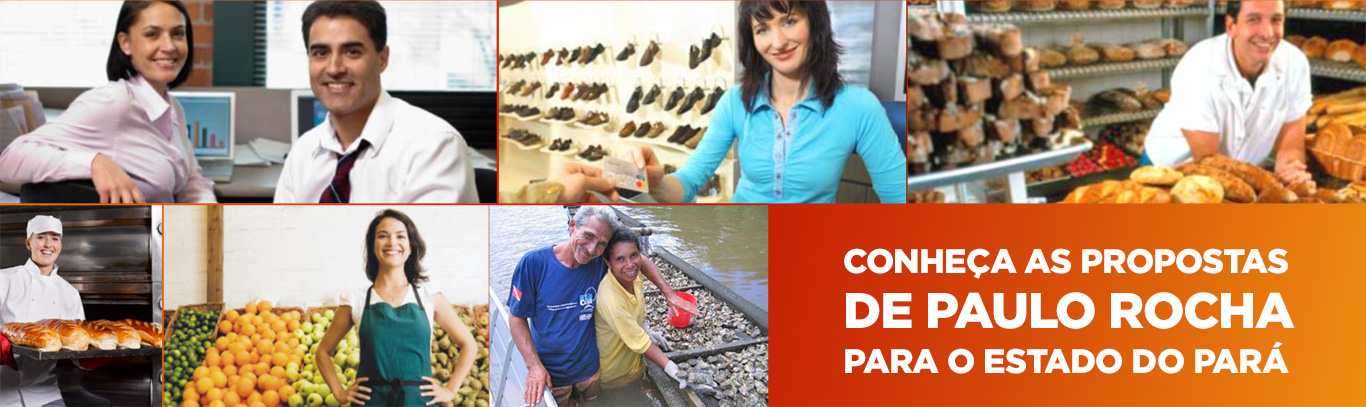
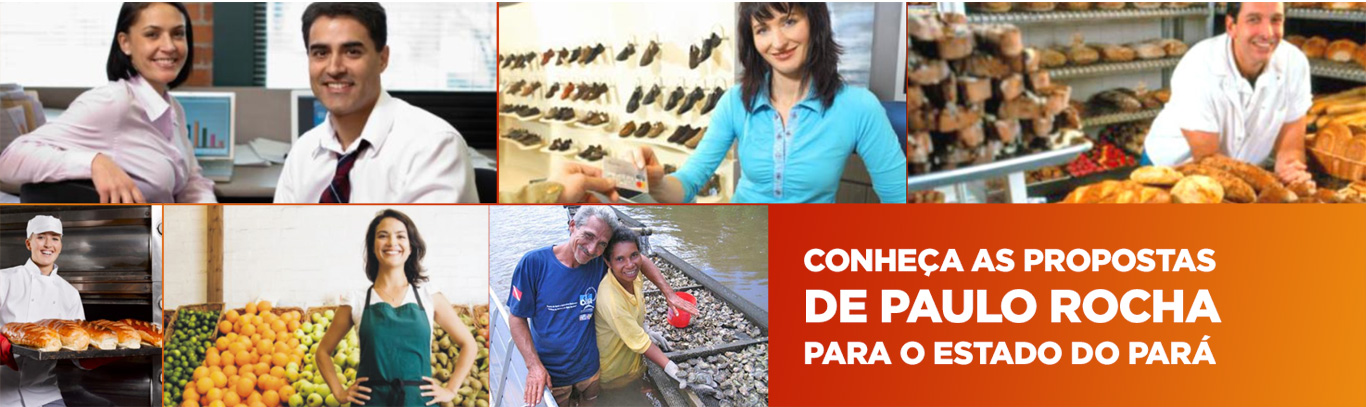
Paulo agora responsivo

diff --git a/wp-content/themes/paulorocha/css/less/site.less b/wp-content/themes/paulorocha/css/less/site.less
@@ -33,6 +33,17 @@ FUNÇÕES PADRÕES START
 /*********************************************************************
 FUNÇÕES PADRÕES END
 */
+/*
+NON-RESPONSIVE START
+**********************************************************************************************/
+/* ALTERAR APENAS ESTAS VARIAVEIS DE ACORDO COM O PROJETO START */
+.container {max-width: none !important;width: 960px;}
+.navbar-nav > li > a {padding-top: 39px;padding-bottom:39px;}
+/* ALTERAR APENAS ESTAS VARIAVEIS DE ACORDO COM O PROJETO END */
+/* Finesse the page header spacing */.page-header {margin-bottom: 30px;}.page-header .lead {margin-bottom: 10px;}/* Non-responsive overrides** Utilitze the following CSS to disable the responsive-ness of the container,* grid system, and navbar.*//* Reset the container *//* Always float the navbar header */.navbar-header {float: left;}/* Undo the collapsing navbar */.navbar-collapse {display: block !important;height: auto !important;padding-bottom: 0;overflow: visible !important;}.navbar-toggle {display: none;}.navbar-collapse {border-top: 0;}.navbar-brand {margin-left: -15px;}/* Always apply the floated nav */.navbar-nav {float: left;margin: 0;}.navbar-nav > li {float: left;}/* Redeclare since we override the float above */.navbar-nav.navbar-right {float: right;}/* Undo custom dropdowns */.navbar .navbar-nav .open .dropdown-menu {position: absolute;float: left;background-color: #fff;border: 1px solid #cccccc;border: 1px solid rgba(0, 0, 0, 0.15);border-width: 0 1px 1px;border-radius: 0 0 4px 4px;-webkit-box-shadow: 0 6px 12px rgba(0, 0, 0, 0.175);box-shadow: 0 6px 12px rgba(0, 0, 0, 0.175);}.navbar-default .navbar-nav .open .dropdown-menu > li > a {color: #333;}.navbar .navbar-nav .open .dropdown-menu > li > a:hover,.navbar .navbar-nav .open .dropdown-menu > li > a:focus,.navbar .navbar-nav .open .dropdown-menu > .active > a,.navbar .navbar-nav .open .dropdown-menu > .active > a:hover,.navbar .navbar-nav .open .dropdown-menu > .active > a:focus {color: #fff !important;background-color: #428bca !important;}.navbar .navbar-nav .open .dropdown-menu > .disabled > a,.navbar .navbar-nav .open .dropdown-menu > .disabled > a:hover,.navbar .navbar-nav .open .dropdown-menu > .disabled > a:focus {color: #999 !important;background-color: transparent !important;}
+/**********************************************************************************************
+NON-RESPONSIVE END
+*/
 ::selection {background-color: @primary-color;color: #FFF;}
 ::-moz-selection {background-color: @primary-color;color: #FFF;}
 small {display: inline-block;line-height: 1.1;}
@@ -51,6 +62,7 @@ FONTS END
 ESTRUTURA START
 **********************************************************************************************/
 body {background: #F7F7F7;}
+.extra-header, .extra-central, .extra-footer {min-width: 960px;}
 .extra-header {
     background: @primary-color url(images/bg-header.jpg) no-repeat center top;position: relative;margin-bottom: 40px; 
     .container {}
@@ -84,7 +96,7 @@ body {background: #F7F7F7;}
     }
 }
 .site-header-bottom {background: @secondary-color;position: absolute;left: 0;right: 0;height: 10px;top: 100%;z-index: 1009;}
-.site-content {min-height: 300px;}
+.site-content {min-height: 280px;}
 .site-central {background: #FFF;padding:20px;margin-bottom: 2px;}
 .home {
     .site-central {background: none;padding:0;margin-bottom:0;}
@@ -148,14 +160,14 @@ CLASSES START
     .cycle-prev, .cycle-next {display: block;position: absolute;top: 50%;margin-top:-58px;height: 116px;width: 100px;text-align: center;background: @secondary-color;padding:38px 0;z-index: 2;}
     .cycle-prev {left: 0;-webkit-border-radius: 0px 3px 3px 0px;-moz-border-radius: 0px 3px 3px 0px;-ms-border-radius: 0px 3px 3px 0px;-o-border-radius: 0px 3px 3px 0px;border-radius: 0px 3px 3px 0px;}
     .cycle-next {right: 0;-webkit-border-radius: 3px 0px 0px 3px;-moz-border-radius: 3px 0px 0px 3px;-ms-border-radius: 3px 0px 0px 3px;-o-border-radius: 3px 0px 0px 3px;border-radius: 3px 0px 0px 3px;}
-    &, .cycle-slideshow, .cycle-slideshow li, .cycle-slideshow li a {width: 100%;height: 404px;}
+    &, .cycle-slideshow, .cycle-slideshow li, .cycle-slideshow li a {width: 100%;height: 338px;}
     .cycle-slideshow {
         position: relative;z-index: 1;overflow: hidden;
         li {
             overflow: hidden;
             a {
                 display: block;position: relative; 
-                img {max-height: 100%;min-width:100%;position: absolute;top: 0;}
+                img {height:auto;max-width:100%;position: absolute;top: 0;}
             } 
         }
     }
@@ -241,17 +253,17 @@ JQUERY UI END
 
 }
 @media (max-width: 767px) {
-   /*    .site-geral:before {content:"TABLET";}*/
+ /*    .site-geral:before {content:"TABLET";}*/
 }
 @media (max-width: 480px) {
-   /*#GERAL:before {content:"MOBILE";}*/
+ /*#GERAL:before {content:"MOBILE";}*/
 }
 @media (min-width: 768px) and (max-width: 980px) {
-    .navbar-brand {
+    /* .navbar-brand {
         padding-top:44px;
         img {width: 100px;height: auto;}
-    }
-    .extra-header .navbar .nav > li > a {font-size: 13px;padding-left:7px;padding-right:7px;}
+        } */
+    // .extra-header .navbar .nav > li > a {font-size: 13px;padding-left:7px;padding-right:7px;}
     .extra-boxs {
         .site-boxs {
             .lista-box {
@@ -263,13 +275,9 @@ JQUERY UI END
     }
 }
 @media (min-width: 981px) and (max-width: 1200px) {
-   /*#GERAL:before {content:"ACIMA DE TABLET";}*/
+ /*#GERAL:before {content:"ACIMA DE TABLET";}*/
 
-    .navbar-brand {
-        padding-top:36px;
-        img {width: 130px;height: auto;}
-    }
-   .extra-boxs {
+ .extra-boxs {
     .site-boxs {
         .lista-box {
             .box {
@@ -278,4 +286,17 @@ JQUERY UI END
         }
     }
 }
+}
+@media (max-width: 1200px)  {
+    .extra-header .navbar .nav > li > a {font-size: 14px;padding-left:7px;padding-right:7px;}
+/*    .navbar-brand {
+    // padding-top:36px !important;
+    // img {width: 130px;height: auto;}
+    } */
+    .box-banner {
+        &, .cycle-slideshow, .cycle-slideshow li, .cycle-slideshow li a {height: 280px;}
+    }
+}
+@media (min-width: 1201px)  {
+    .container {width: 1160px;}
 }

diff --git a/wp-content/themes/paulorocha/style.css b/wp-content/themes/paulorocha/style.css
@@ -19,6 +19,92 @@ FUNÇÕES PADRÕES START
 /*********************************************************************
 FUNÇÕES PADRÕES END
 */
+/*
+NON-RESPONSIVE START
+**********************************************************************************************/
+/* ALTERAR APENAS ESTAS VARIAVEIS DE ACORDO COM O PROJETO START */
+.container {
+  max-width: none !important;
+  width: 960px;
+}
+.navbar-nav > li > a {
+  padding-top: 39px;
+  padding-bottom: 39px;
+}
+/* ALTERAR APENAS ESTAS VARIAVEIS DE ACORDO COM O PROJETO END */
+/* Finesse the page header spacing */
+.page-header {
+  margin-bottom: 30px;
+}
+.page-header .lead {
+  margin-bottom: 10px;
+}
+/* Non-responsive overrides** Utilitze the following CSS to disable the responsive-ness of the container,* grid system, and navbar.*/
+/* Reset the container */
+/* Always float the navbar header */
+.navbar-header {
+  float: left;
+}
+/* Undo the collapsing navbar */
+.navbar-collapse {
+  display: block !important;
+  height: auto !important;
+  padding-bottom: 0;
+  overflow: visible !important;
+}
+.navbar-toggle {
+  display: none;
+}
+.navbar-collapse {
+  border-top: 0;
+}
+.navbar-brand {
+  margin-left: -15px;
+}
+/* Always apply the floated nav */
+.navbar-nav {
+  float: left;
+  margin: 0;
+}
+.navbar-nav > li {
+  float: left;
+}
+/* Redeclare since we override the float above */
+.navbar-nav.navbar-right {
+  float: right;
+}
+/* Undo custom dropdowns */
+.navbar .navbar-nav .open .dropdown-menu {
+  position: absolute;
+  float: left;
+  background-color: #fff;
+  border: 1px solid #cccccc;
+  border: 1px solid rgba(0, 0, 0, 0.15);
+  border-width: 0 1px 1px;
+  border-radius: 0 0 4px 4px;
+  -webkit-box-shadow: 0 6px 12px rgba(0, 0, 0, 0.175);
+  box-shadow: 0 6px 12px rgba(0, 0, 0, 0.175);
+}
+.navbar-default .navbar-nav .open .dropdown-menu > li > a {
+  color: #333;
+}
+.navbar .navbar-nav .open .dropdown-menu > li > a:hover,
+.navbar .navbar-nav .open .dropdown-menu > li > a:focus,
+.navbar .navbar-nav .open .dropdown-menu > .active > a,
+.navbar .navbar-nav .open .dropdown-menu > .active > a:hover,
+.navbar .navbar-nav .open .dropdown-menu > .active > a:focus {
+  color: #fff !important;
+  background-color: #428bca !important;
+}
+.navbar .navbar-nav .open .dropdown-menu > .disabled > a,
+.navbar .navbar-nav .open .dropdown-menu > .disabled > a:hover,
+.navbar .navbar-nav .open .dropdown-menu > .disabled > a:focus {
+  color: #999 !important;
+  background-color: transparent !important;
+}
+/**********************************************************************************************
+NON-RESPONSIVE END
+*/
 ::selection {
   background-color: #7e0204;
   color: #FFF;
@@ -59,6 +145,11 @@ ESTRUTURA START
 **********************************************************************************************/
 body {
   background: #F7F7F7;
+}
+.extra-header,
+.extra-central,
+.extra-footer {
+  min-width: 960px;
 }
 .extra-header {
   background: #7e0204 url(images/bg-header.jpg) no-repeat center top;
@@ -134,7 +225,7 @@ body {
   z-index: 1009;
 }
 .site-content {
-  min-height: 300px;
+  min-height: 280px;
 }
 .site-central {
   background: #FFF;
@@ -335,7 +426,7 @@ CLASSES START
 .box-banner .cycle-slideshow li,
 .box-banner .cycle-slideshow li a {
   width: 100%;
-  height: 404px;
+  height: 338px;
 }
 .box-banner .cycle-slideshow {
   position: relative;
@@ -350,8 +441,8 @@ CLASSES START
   position: relative;
 }
 .box-banner .cycle-slideshow li a img {
-  max-height: 100%;
-  min-width: 100%;
+  height: auto;
+  max-width: 100%;
   position: absolute;
   top: 0;
 }
@@ -524,34 +615,41 @@ JQUERY UI END
   /*#GERAL:before {content:"MOBILE";}*/
 }
 @media (min-width: 768px) and (max-width: 980px) {
-  .navbar-brand {
-    padding-top: 44px;
-  }
-  .navbar-brand img {
-    width: 100px;
-    height: auto;
-  }
-  .extra-header .navbar .nav > li > a {
-    font-size: 13px;
-    padding-left: 7px;
-    padding-right: 7px;
-  }
+  /* .navbar-brand {
+        padding-top:44px;
+        img {width: 100px;height: auto;}
+        } */
   .extra-boxs .site-boxs .lista-box .box .content {
     font-size: 16px;
   }
 }
 @media (min-width: 981px) and (max-width: 1200px) {
   /*#GERAL:before {content:"ACIMA DE TABLET";}*/
-  .navbar-brand {
-    padding-top: 36px;
-  }
-  .navbar-brand img {
-    width: 130px;
-    height: auto;
-  }
   .extra-boxs .site-boxs .lista-box .box .content {
     font-size: 14px;
     letter-spacing: normal;
     line-height: .9;
+  }
+}
+@media (max-width: 1200px) {
+  .extra-header .navbar .nav > li > a {
+    font-size: 14px;
+    padding-left: 7px;
+    padding-right: 7px;
+  }
+  /*    .navbar-brand {
+    // padding-top:36px !important;
+    // img {width: 130px;height: auto;}
+    } */
+  .box-banner,
+  .box-banner .cycle-slideshow,
+  .box-banner .cycle-slideshow li,
+  .box-banner .cycle-slideshow li a {
+    height: 280px;
+  }
+}
+@media (min-width: 1201px) {
+  .container {
+    width: 1160px;
   }
 }

diff --git a/wp-content/themes/paulorocha/header.php b/wp-content/themes/paulorocha/header.php
@@ -20,7 +20,7 @@
 <!--<![endif]-->
 <head>
 	<meta charset="<?php bloginfo( 'charset' ); ?>">
-	<meta name="viewport" content="width=device-width">
+	<!-- <meta name="viewport" content="width=device-width"> -->
 	<title><?php wp_title( '|', true, 'right' ); ?></title>
 	<meta content="<?php echo get_template_directory_uri(); ?>/images/favicon.png" itemprop="image">
 	<link rel="icon" href="<?php echo get_template_directory_uri(); ?>/images/favicon.png" type="image/png" />
